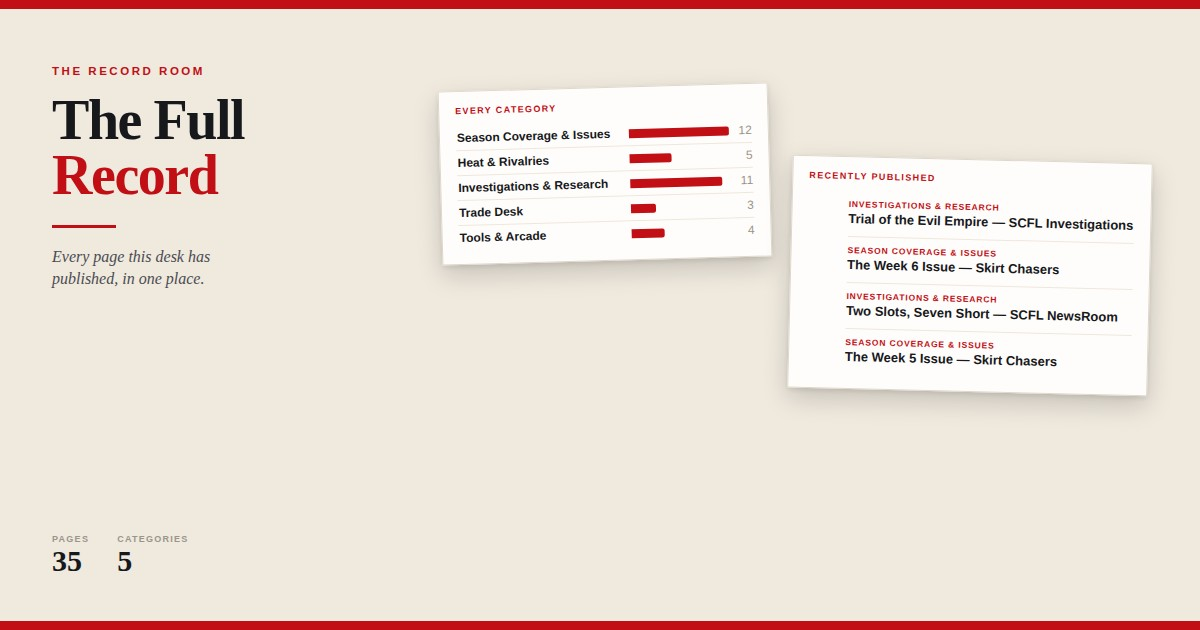
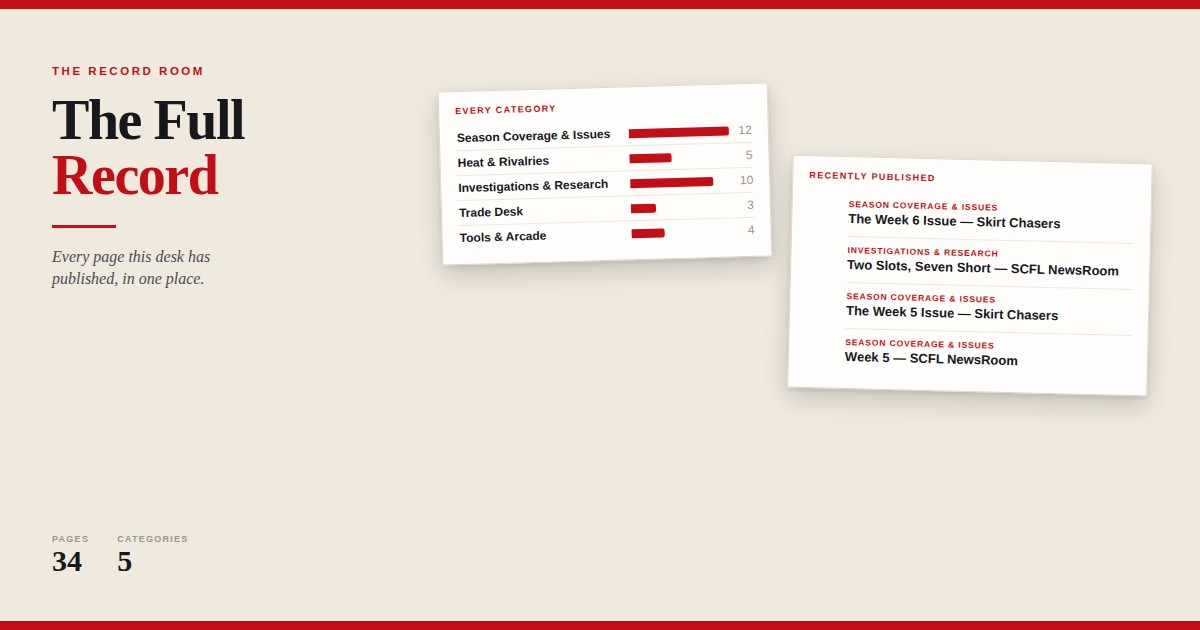
Pull the Trade Audit: the Machines' deal count does not survive a check
John asked me to check the trade counts. They do not hold.

THE MACHINES ARE THE ONLY FRANCHISE IN THE LEDGER WITH AN IDENTICAL
COUNT FIVE SEASONS RUNNING -- thirteen in 2021, 2022, 2023, 2024 and
2025 -- while the league total over those years swings 53, 62, 54, 43,
38 and every other one of the sixteen varies season to season. If deals
arrived at a rate of about thirteen a year, five consecutive seasons
landing on exactly thirteen is somewhere around a one in sixty thousand
event, and it happening to exactly one franchise is not a coincidence,
it is a fingerprint. Something in the Obvibase reconstruction capped or
padded that side of the export.

The ledger is internally consistent -- 256 rows, no duplicates, side
appearances sum correctly, assets per trade look ordinary -- so this is
not a double count. It is the Machines' own rows that cannot be trusted,
and every headline figure in the piece is built on them: 67 deals, 14
partners, 15 and 14 for the top two, 52 players in against 74 out, the
whole 16-7 record.

So the page comes down rather than stay up with a number I now know is
unsafe, on an investigation that names another manager's team. The
article, its builder and the figures stay in the repo; only the
published page, its card and its catalog entry are withdrawn.

Claude-Session: https://claude.ai/code/session_01UFuyFKGPqfLKJjzL4J7sQk

diff --git a/scripts/build_site_index.py b/scripts/build_site_index.py
@@ -44,7 +44,6 @@ CATEGORY = {
     'scfl-addendum.html': 'Heat & Rivalries',
     'scfl-gumbas.html': 'Heat & Rivalries',
     'scfl-offseason-heat.html': 'Heat & Rivalries',
-    'scfl-trade-audit.html': 'Investigations & Research',
     'scfl-grudge-report.html': 'Heat & Rivalries',
     # Investigations & Research
     'scfl-ir-study.html': 'Investigations & Research',
